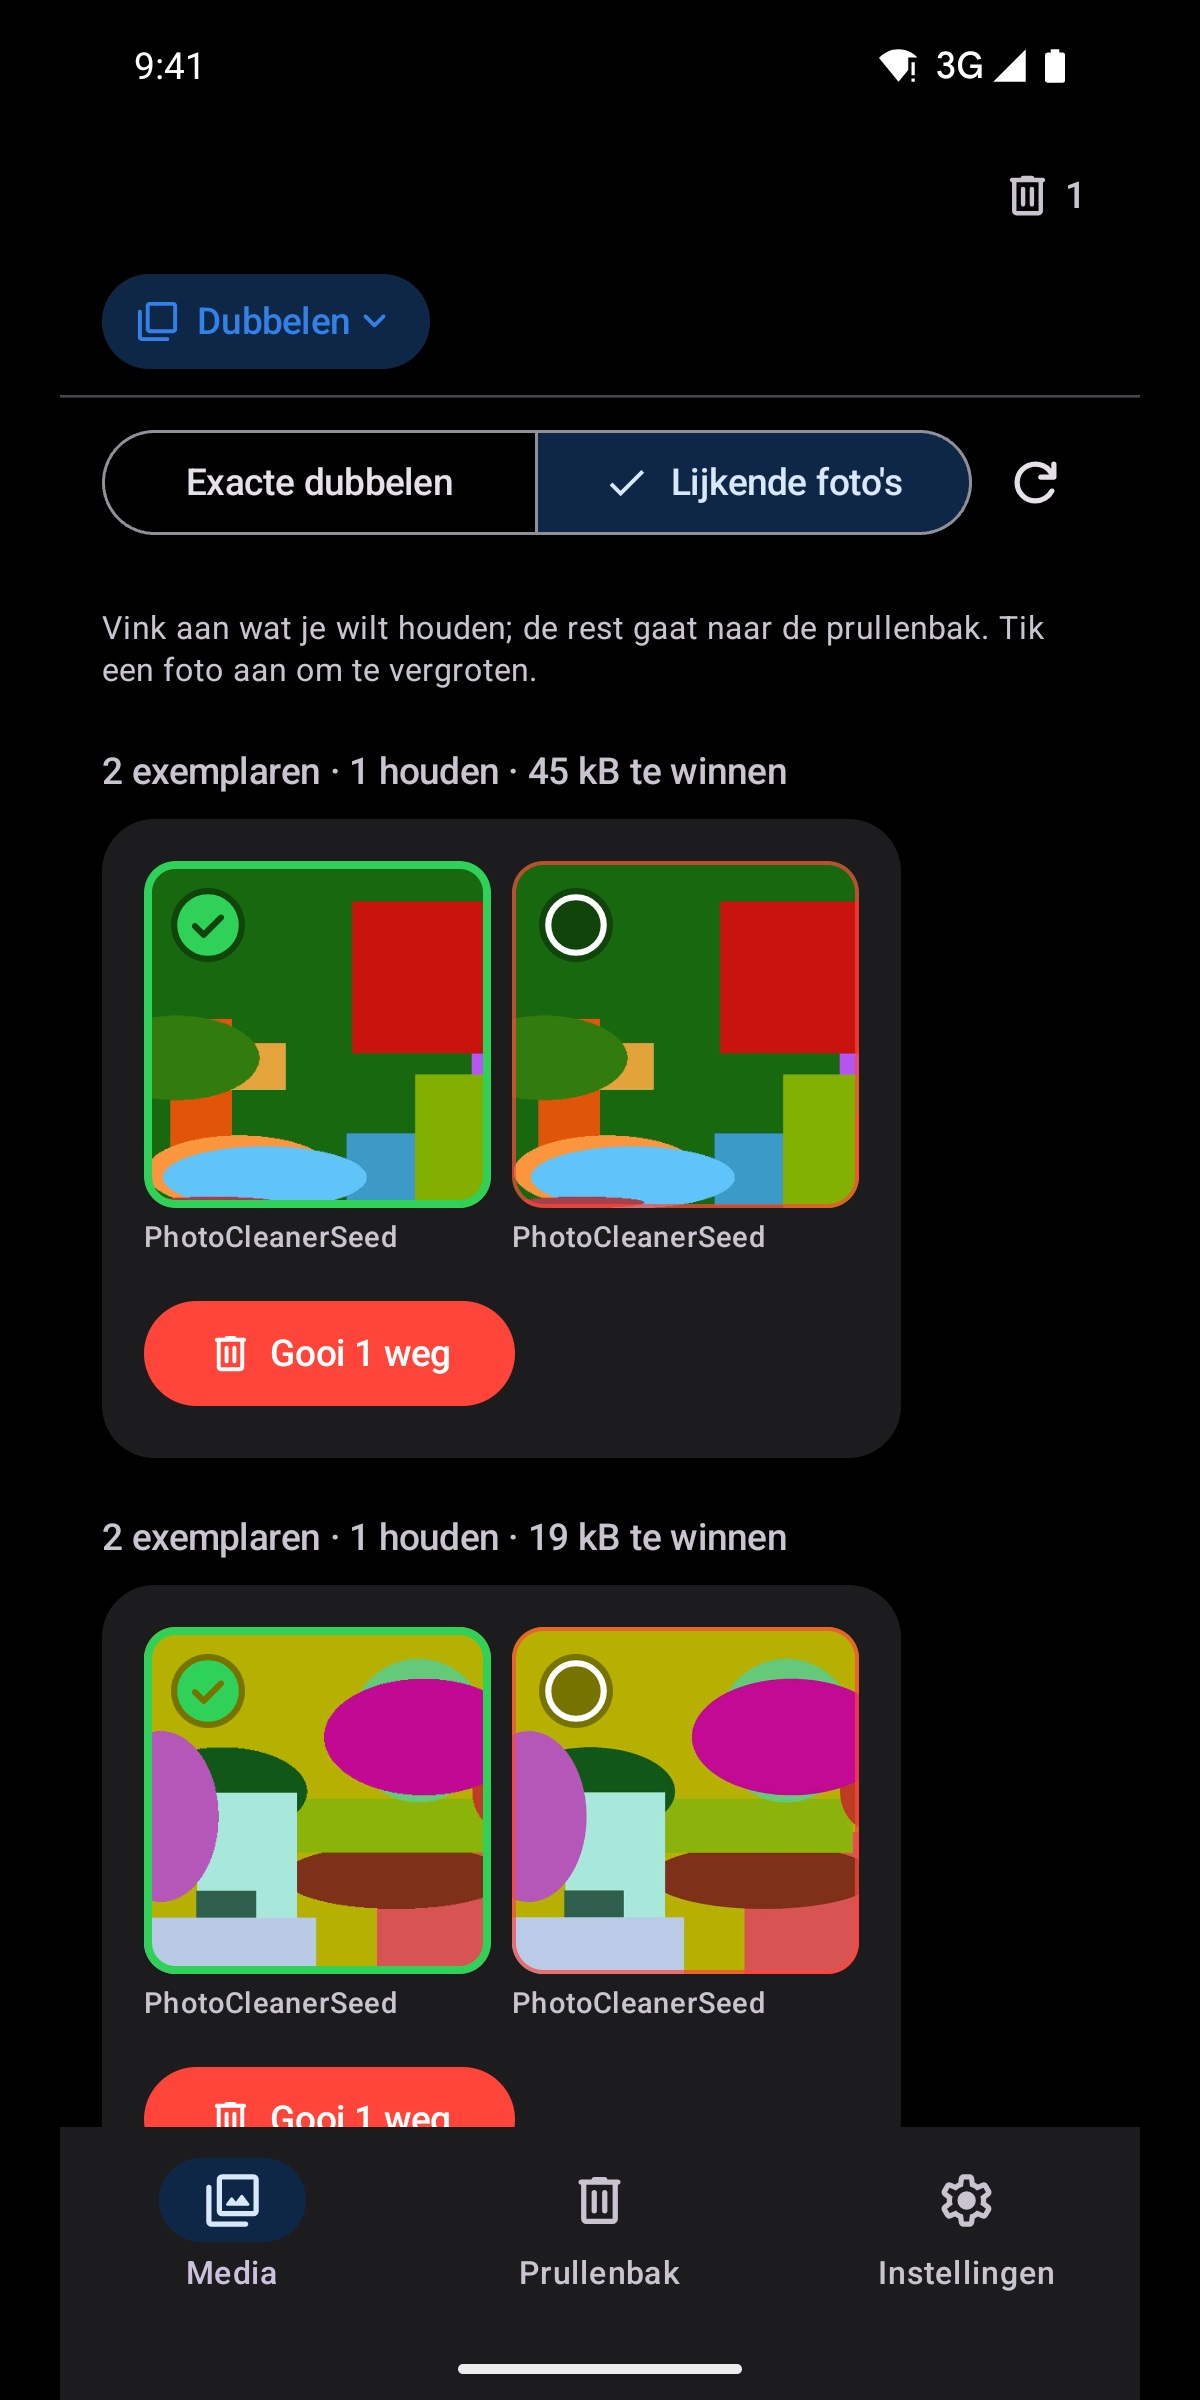
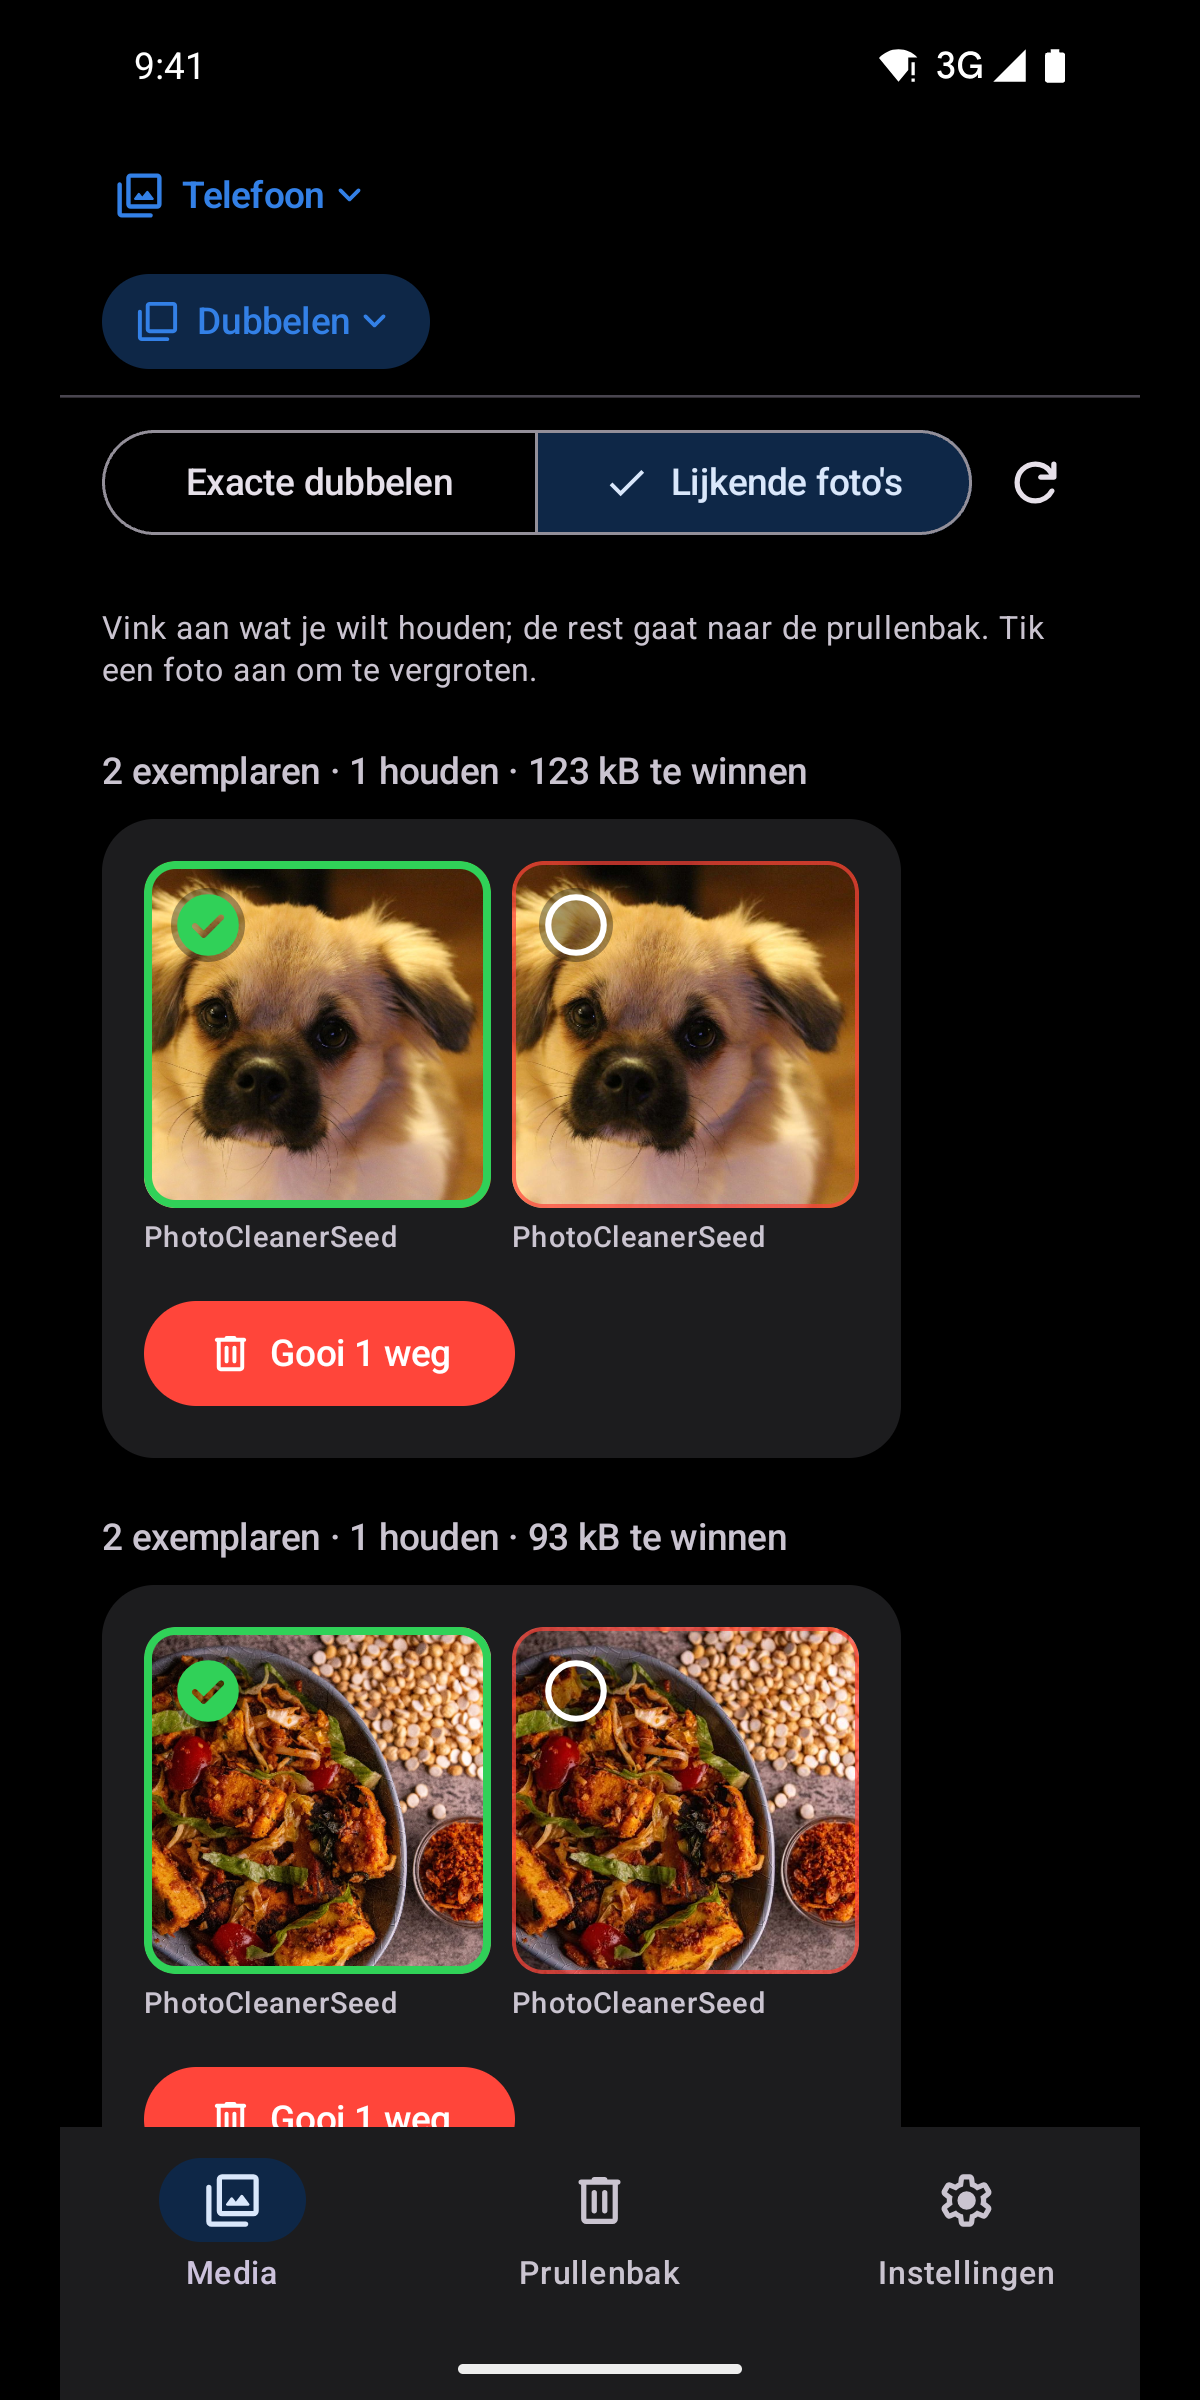
docs(store): retake Play screenshots with real stock photos
The screenshots showed generated coloured shapes. The seed generator now takes an
optional folder of real photos (free Pexels photos, listed in store/play/photos.md),
and the similar copy keeps the photo's aspect ratio so portrait photos still pair.

diff --git a/android/scripts/generate_seed_images.py b/android/scripts/generate_seed_images.py
@@ -1,7 +1,11 @@
 #!/usr/bin/env python3
 """Generates synthetic test photos for the Android emulator (no personal photos).
 
-Usage: generate_seed_images.py OUT_DIR   (OUT_DIR must be inside the system temp directory)
+Usage: generate_seed_images.py OUT_DIR [PHOTOS_DIR]
+  OUT_DIR must be inside the system temp directory.
+  PHOTOS_DIR (optional): real photos to use instead of the shapes, for store screenshots
+  (store/play/photos.md lists the free Pexels photos used); its *.jpg files are used in
+  name order and must number at least 21.
 
 Writes OUT_DIR/camera/*.jpg and OUT_DIR/screenshots/*.png covering the review cases:
 on this day in earlier years, exact duplicates, similar photos, a panorama, a leap-day
@@ -19,7 +23,7 @@ import tempfile
 from pathlib import Path
 
 try:
-    from PIL import Image, ImageDraw
+    from PIL import Image, ImageDraw, ImageOps
 except ImportError:
     sys.exit(
         "Pillow is required; install it in a virtual environment (see the module docstring)."
@@ -49,6 +53,23 @@ def scene(seed: int, width: int, height: int) -> Image.Image:
     return img
 
 
+# Real photos for store screenshots (main() fills it from PHOTOS_DIR); empty = shapes.
+PHOTOS: list[Path] = []
+# Which photo each scene seed gets; the order of the seeds is the order of the files.
+SEEDS = [100, 101, 102, 200, 300, 400, 500, 600, 700] + [1000 + i for i in range(12)]
+
+
+def picture(seed: int, width: int, height: int) -> Image.Image:
+    """The seed's real photo cropped to the size (portrait photos stay portrait), or a scene."""
+    if not PHOTOS:
+        return scene(seed, width, height)
+    with Image.open(PHOTOS[SEEDS.index(seed)]) as src:
+        img = ImageOps.exif_transpose(src).convert("RGB")
+    if img.height > img.width and width > height and width < 2 * height:
+        width, height = height, width
+    return ImageOps.fit(img, (width, height))
+
+
 def save_jpeg(
     img: Image.Image, path: Path, taken: dt.datetime | None, quality: int = 90
 ) -> None:
@@ -65,8 +86,12 @@ def save_jpeg(
 
 
 def main() -> None:
-    if len(sys.argv) != 2:
+    if len(sys.argv) not in (2, 3):
         sys.exit(__doc__)
+    if len(sys.argv) == 3:
+        PHOTOS.extend(sorted(Path(sys.argv[2]).glob("*.jpg")))
+        if len(PHOTOS) < len(SEEDS):
+            sys.exit(f"PHOTOS_DIR needs at least {len(SEEDS)} .jpg files")
     # Only write inside the system temp directory (seed-emulator.sh passes `mktemp -d`),
     # so a mistyped argument cannot scatter files elsewhere.
     temp_root = Path(tempfile.gettempdir()).resolve()
@@ -93,33 +118,34 @@ def main() -> None:
     # On this day in earlier years.
     for i, year in enumerate((2019, 2021, 2023)):
         save_jpeg(
-            scene(100 + i, 1600, 1200), camera / f"onthisday_{year}.jpg", this_day(year)
+            picture(100 + i, 1600, 1200), camera / f"onthisday_{year}.jpg", this_day(year)
         )
 
     # Exact duplicates: same capture second and dimensions, different file size.
     dup_time = on(2022, 6, 15, 15)
     save_jpeg(
-        scene(200, 1600, 1200), camera / "exact_dup_original.jpg", dup_time, quality=95
+        picture(200, 1600, 1200), camera / "exact_dup_original.jpg", dup_time, quality=95
     )
     save_jpeg(
-        scene(200, 1600, 1200), camera / "exact_dup_copy.jpg", dup_time, quality=60
+        picture(200, 1600, 1200), camera / "exact_dup_copy.jpg", dup_time, quality=60
     )
 
     # Similar photos: same scene re-exported smaller, a day later (not an exact duplicate).
-    save_jpeg(scene(300, 1600, 1200), camera / "similar_original.jpg", on(2021, 9, 3))
+    similar = picture(300, 1600, 1200)
+    save_jpeg(similar, camera / "similar_original.jpg", on(2021, 9, 3))
     save_jpeg(
-        scene(300, 1600, 1200).resize((800, 600)),
+        similar.resize((similar.width // 2, similar.height // 2)),
         camera / "similar_smaller.jpg",
         on(2021, 9, 4),
         quality=70,
     )
 
     # Panorama (>= 2:1) and a leap-day photo.
-    save_jpeg(scene(400, 3000, 1000), camera / "panorama.jpg", on(2020, 7, 21))
-    save_jpeg(scene(500, 1600, 1200), camera / "leapday_2024.jpg", on(2024, 2, 29))
+    save_jpeg(picture(400, 3000, 1000), camera / "panorama.jpg", on(2020, 7, 21))
+    save_jpeg(picture(500, 1600, 1200), camera / "leapday_2024.jpg", on(2024, 2, 29))
 
     # No capture date: browsing falls back to the date the file was added.
-    save_jpeg(scene(600, 1200, 1200), camera / "no_exif_date.jpg", None)
+    save_jpeg(picture(600, 1200, 1200), camera / "no_exif_date.jpg", None)
 
     # Spread-out dates for day/month/year browsing.
     rng = random.Random(42)
@@ -130,10 +156,10 @@ def main() -> None:
             rng.randint(1, 28),
             rng.randint(8, 20),
         )
-        save_jpeg(scene(1000 + i, 1600, 1200), camera / f"random_{i:02d}.jpg", taken)
+        save_jpeg(picture(1000 + i, 1600, 1200), camera / f"random_{i:02d}.jpg", taken)
 
     # Phone screenshot (20:9, PNG, in a Screenshots folder).
-    scene(700, 1080, 2400).save(shots / "Screenshot_seed.png", "PNG")
+    picture(700, 1080, 2400).save(shots / "Screenshot_seed.png", "PNG")
 
     print(
         f"Wrote {len(list(camera.iterdir()))} camera photos and "

diff --git a/store/play/photos.md b/store/play/photos.md
@@ -1,0 +1,35 @@
+# Photos in the Play screenshots
+
+The phone screenshots in `screenshots/nl/` and `screenshots/en/` (retaken 2026-11-27) show
+free stock photos from Pexels, under the Pexels license (free to use, also commercially,
+no attribution required; https://www.pexels.com/license/). No personal photos. The photos
+themselves are not in the repo; download them by ID to retake the screenshots.
+
+In order (the seed generator assigns them by file name order, so keep the `NN-` prefix):
+
+| # | Pexels ID | Used as |
+|---|-----------|---------|
+| 00 | 17345550 | on this day, 2019 |
+| 01 | 29014982 | on this day, 2021 |
+| 02 | 36694789 | on this day, 2023 |
+| 03 | 32949053 | exact duplicate pair |
+| 04 | 7160695 | similar pair |
+| 05 | 39085256 | panorama |
+| 06 | 20318974 | leap day 2024 |
+| 07 | 29020872 | no capture date (shows as today) |
+| 08 | 9825919 | phone screenshot (shows as today) |
+| 09–20 | 14209535, 18168206, 2290554, 28853195, 33828874, 33999682, 36468248, 36687007, 40234150, 5691261, 6489478, 12181619 | spread-out dates |
+
+Retake (emulator running, debug build installed, from `android/`):
+
+1. Download each as `NN-<id>.jpg` into one folder:
+   `https://images.pexels.com/photos/<id>/pexels-photo-<id>.jpeg?auto=compress&cs=tinysrgb&w=1600`.
+2. `SEED_PHOTOS=<folder> scripts/seed-emulator.sh`.
+3. Show Pro as unlocked without a purchase (debug build, emulator only):
+   `echo '{"state":"PRO","purchaseToken":"store-screenshots"}' | adb shell run-as com.guus.photocleaner sh -c "'cat > files/entitlement.json'"`,
+   then force-stop and reopen the app.
+4. Status bar demo mode (clock 9:41): `adb shell settings put global sysui_demo_allowed 1`
+   and `adb shell am broadcast -a com.android.systemui.demo -e command clock -e hhmm 0941`.
+5. Per language (`adb shell cmd locale set-app-locales com.guus.photocleaner --locales nl-NL`
+   or `en-US`): deck, grid, Duplicates → "Lijkende foto's" / "Similar photos", one photo
+   discarded → Trash, Settings. Pad each 1080×2400 capture to 1200×2400 with black sides.

diff --git a/store/play/listing.md b/store/play/listing.md
@@ -6,7 +6,8 @@ full description 4000 characters.
 
 Assets in this folder: `icon-512.png` (app icon, 512×512), `feature-graphic.png`
 (1024×500), `screenshots/nl/` and `screenshots/en/` (phone, 1200×2400). Sources:
-`design/icon/android-launcher.svg`, `design/icon/play-feature-graphic.svg`.
+`design/icon/android-launcher.svg`, `design/icon/play-feature-graphic.svg`. Photos in the
+screenshots: free Pexels stock photos, `photos.md`.
 
 Category: Photography · Tags: photo management, gallery cleanup · Contains ads: no ·
 In-app purchases: one, PhotoCleaner Pro (`pro_lifetime`, €4.99 once, no subscription;

diff --git a/CHANGELOG.md b/CHANGELOG.md
@@ -29,6 +29,8 @@ Format: [Keep a Changelog](https://keepachangelog.com/en/1.1.0/). Versioning: Se
   (iPhone library only).
 
 ### Changed
+- Google Play screenshots (NL/EN) show real stock photos instead of coloured shapes, and the
+  Settings screenshot shows the Pro row (`store/play/photos.md`).
 - The counter next to the trash icon now shows how many items are in the trash; the lifetime
   "cleaned" total moved to Settings (iOS and Android).
 - Grid review: fixed-layout action bar (buttons always present), weggooien left / behouden
